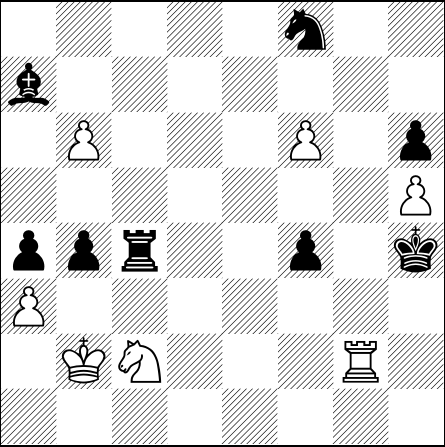
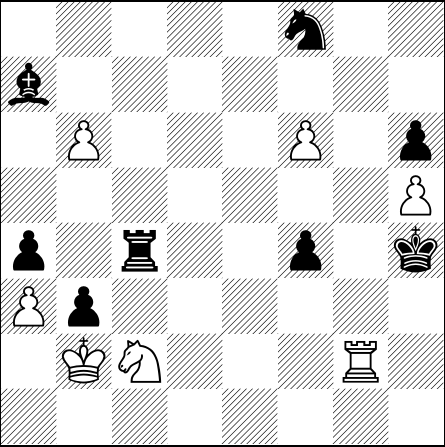
[automated] Regenerate text/pdf for chessboard

Changed region(s): [[0.1461, 0.6398, 0.2337, 0.7562], [0.1461, 0.4944, 0.2337, 0.6107]]

diff --git a/default_filepath.tex b/default_filepath.tex
@@ -13,6 +13,6 @@
 \normalsize%
 \setchessboard{showmover=false}%
 \newgame%
-\fenboard{5n2/b7/1P3P1p/7P/ppr2p1k/P7/1KN3R1/8 b - - 1 86}%
+\fenboard{5n2/b7/1P3P1p/7P/p1r2p1k/Pp6/1KN3R1/8 w - - 0 87}%
 \chessboard%
 \end{document}
